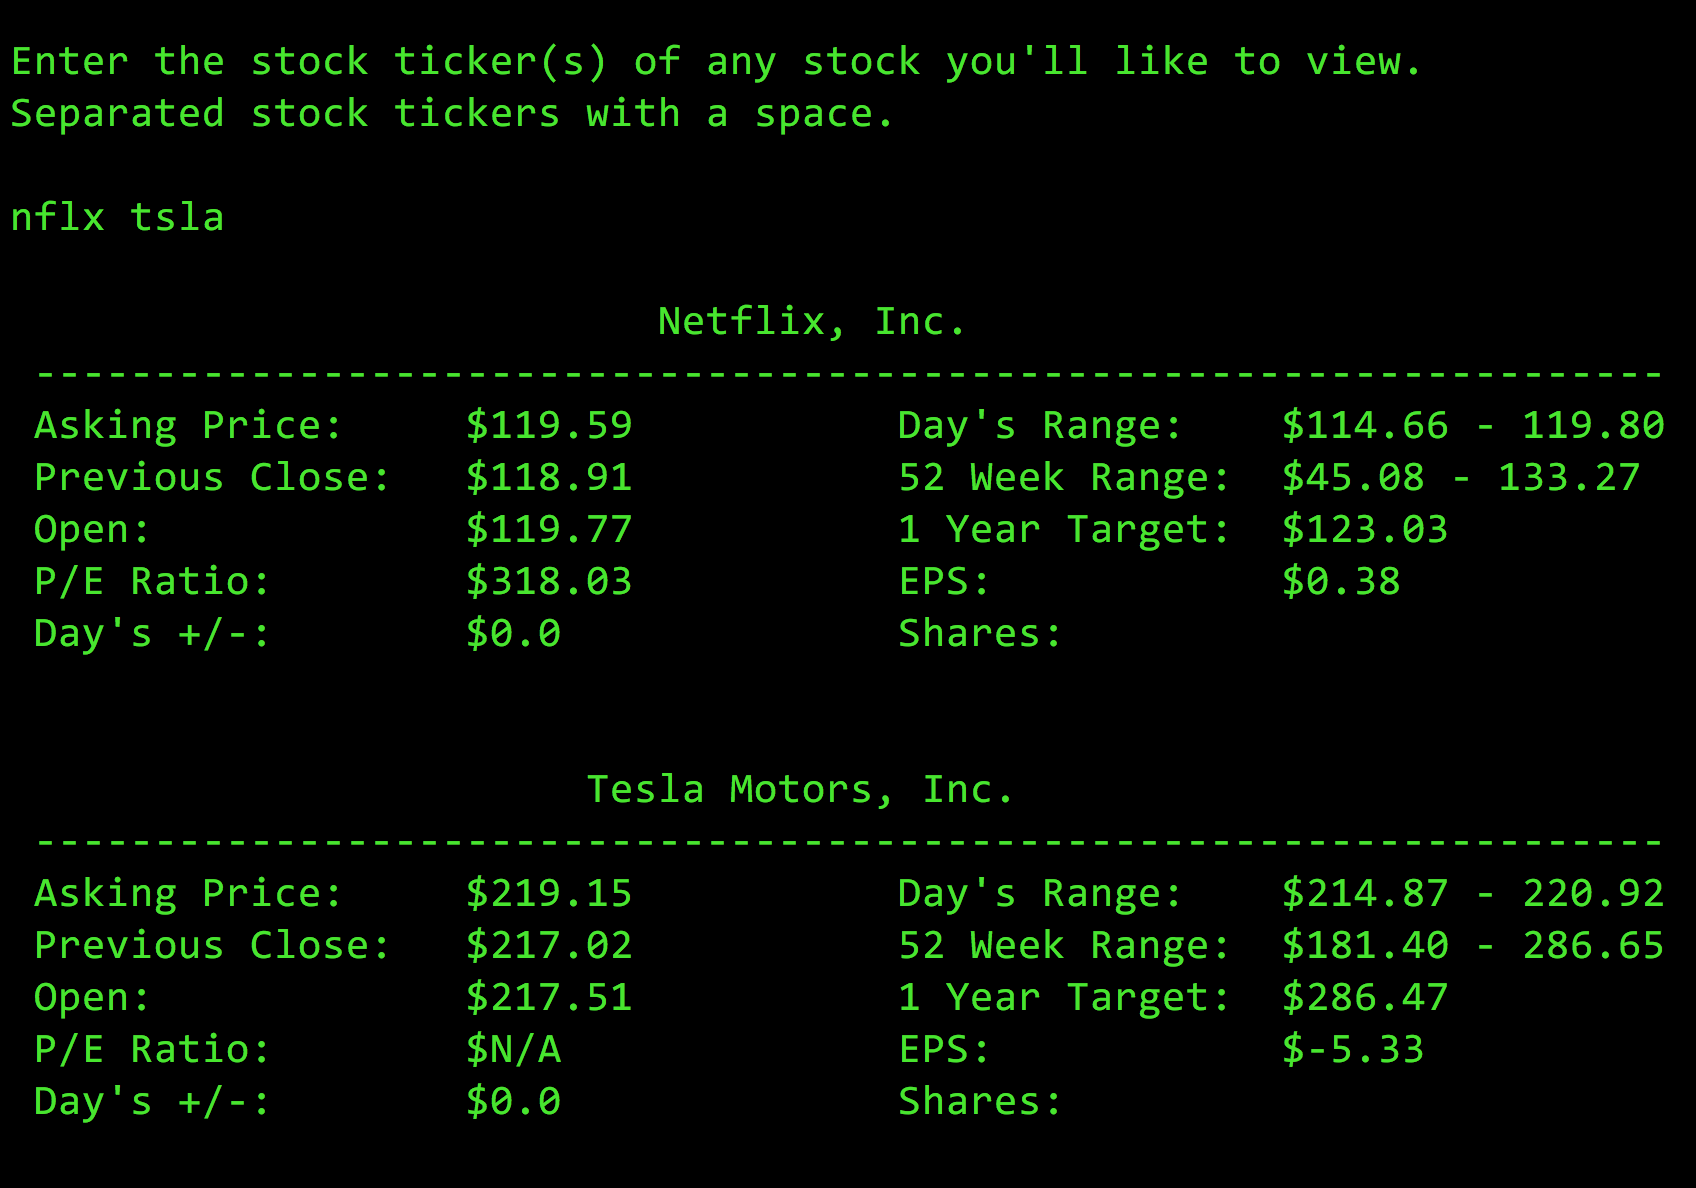
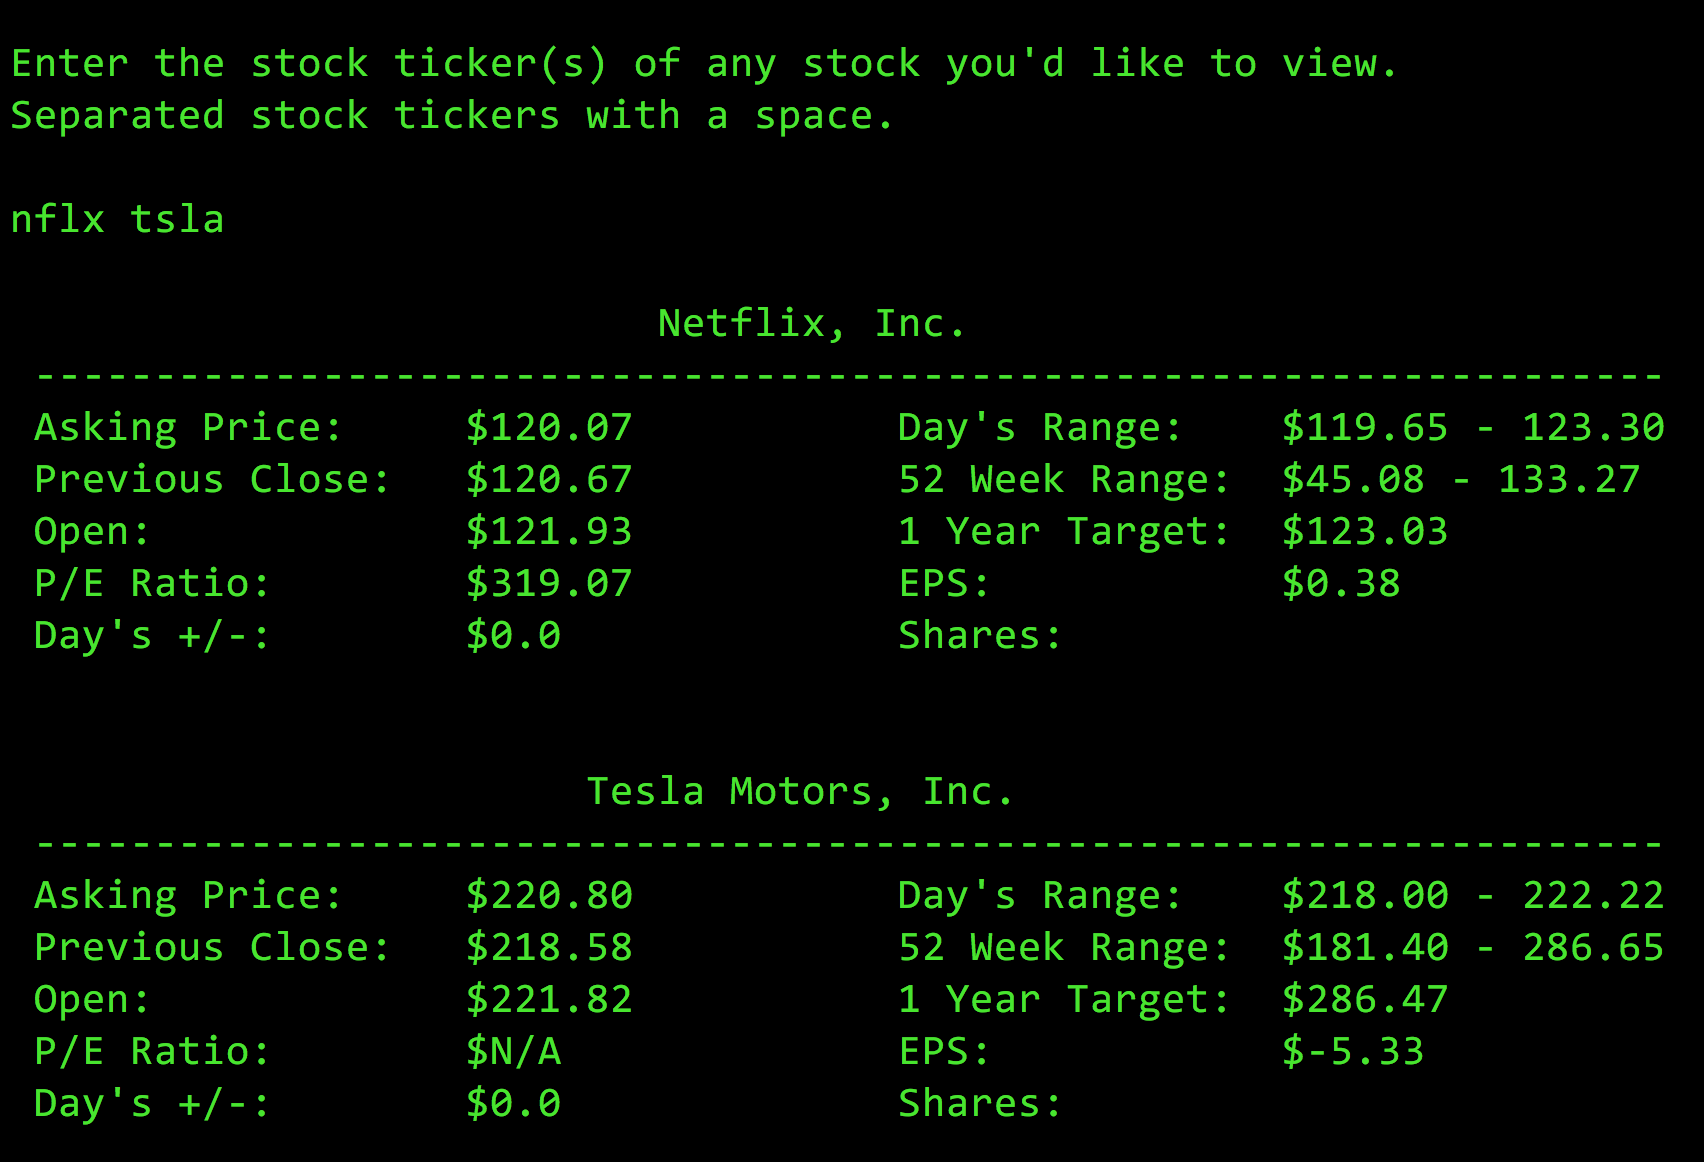
edit portfolio table

diff --git a/lib/stock-gains/stock_lookup.rb b/lib/stock-gains/stock_lookup.rb
@@ -8,7 +8,7 @@ class StockGains::StockLookup
   def call
     input = "" 
     loop do
-      puts "Enter the stock ticker(s) of any stock you'll like to view."
+      puts "Enter the stock ticker(s) of any stock you'd like to view."
       puts "Separated stock tickers with a space.\n\n"
       input = gets.strip.downcase
       break if input == "e" || input == ""

diff --git a/README.md b/README.md
@@ -14,7 +14,7 @@ You can install this gem via `gem install stock-gains`. Before you run this app 
 
 What makes Stock Gains useful is that not only does it compute what each individual stock in your portfolio has earned/lost for that day, it computes the total balance your *portfolio* has earned/lost for that day. These calculations are displayed for the user in the following table:
 
-![](screenshots/port_table.png)
+![](screenshots/portfolio_table.png)
 
 ### Stock Information
 
